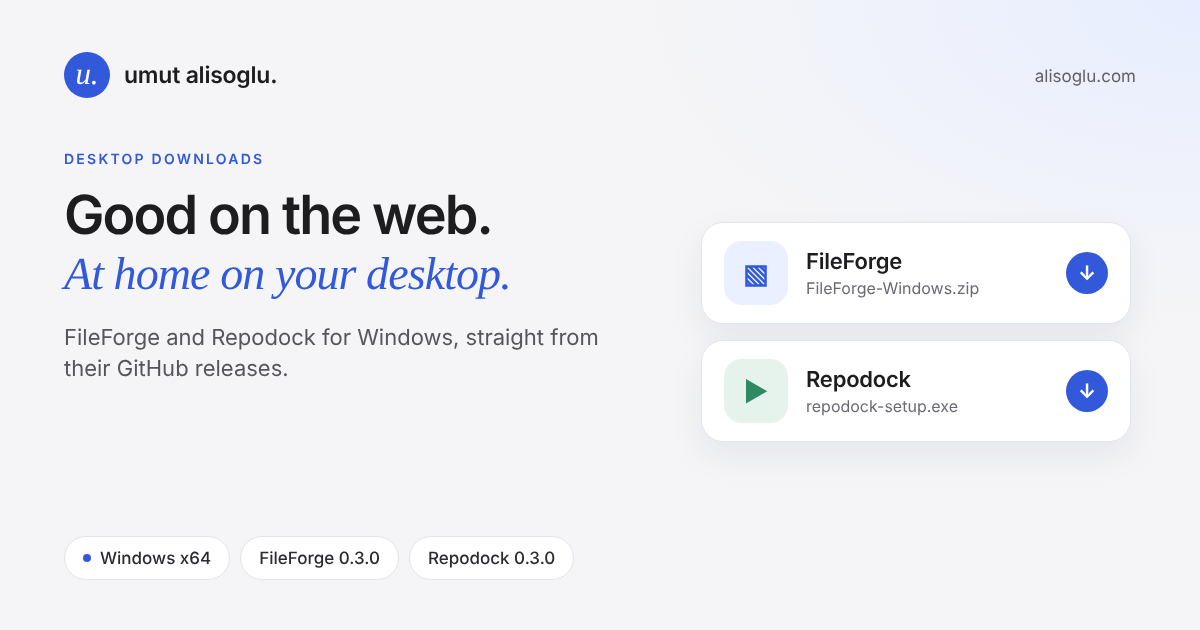
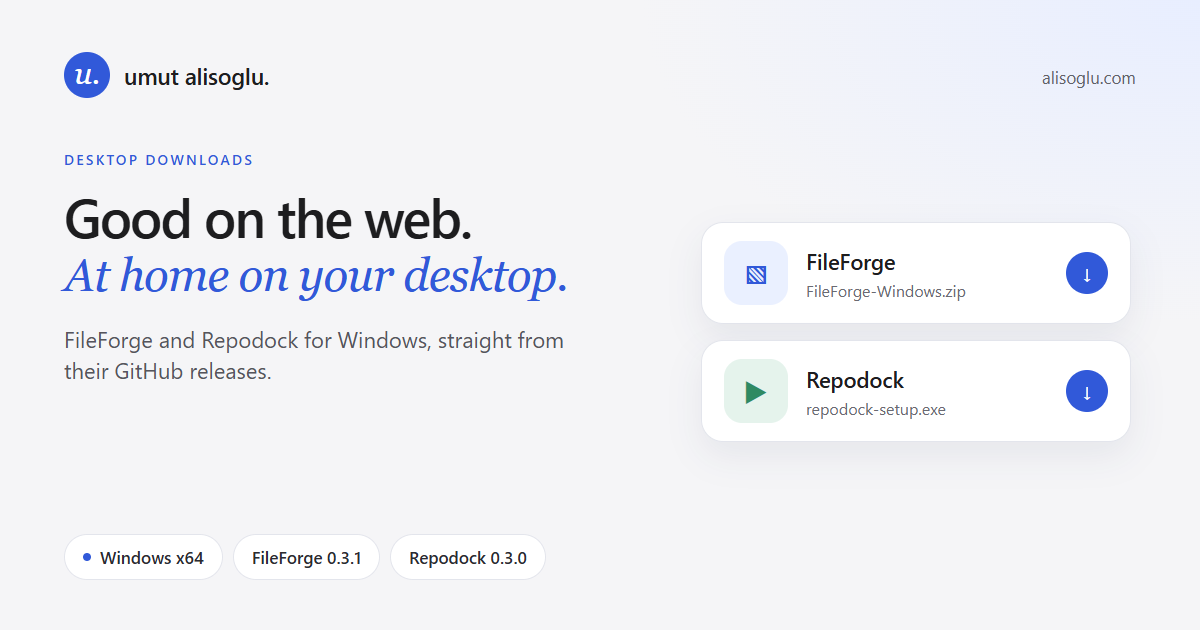
Update the FileForge download to 0.3.1 (#21)

diff --git a/projects/fileforge/index.html b/projects/fileforge/index.html
@@ -21,12 +21,12 @@
   <site-header></site-header>
   <main id="main" class="wrap project-page"><div class="breadcrumbs"><a href="/projects/">Projects</a><span aria-hidden="true">/</span><span>FileForge</span></div>
     <section class="project-hero"><div><p class="eyebrow">BROWSER TOOLS + WINDOWS APP</p><h1>FileForge<span class="accent-dot">.</span><br><em>Files, sorted.</em></h1><p>Everyday file jobs should take a few clicks. Convert images, tidy PDFs, share spreadsheet tables and shrink videos, on your own device.</p><div class="hero-actions"><a class="button primary" href="/tools/workspace/">Open the browser workspace ↗</a><a class="quiet-link" href="#desktop">Get the Windows app ↓</a></div></div><div class="forge-art" role="img" aria-label="Illustration: images, spreadsheets, PDFs and videos processed locally with FileForge"><span class="art-label">THE EVERYDAY FILE TOOLKIT</span><div class="forge-logo"><img src="/assets/fileforge.svg" width="66" height="66" alt=""><strong>FileForge<span>.</span></strong></div><div class="forge-formats"><span>JPG <b>↔</b> WebP</span><span>XLSX <b>→</b> PDF</span><span>PDF <b>+</b> PDF</span><span>MP4 <b>↓</b> size</span></div><span class="art-sticker">Less file drama.</span><span class="art-bottom"><span class="status-dot"></span> YOUR DEVICE DOES THE WORK</span></div></section>
-    <div class="project-facts"><span><strong>Processing</strong>On your device</span><span><strong>Browser</strong>Free tools, no install</span><span><strong>Desktop release</strong>v0.3.0 · 23 Oct 2026</span></div>
+    <div class="project-facts"><span><strong>Processing</strong>On your device</span><span><strong>Browser</strong>Free tools, no install</span><span><strong>Desktop release</strong>v0.3.1 · 27 Nov 2026</span></div>
     <nav class="product-workflows" aria-label="Choose a FileForge workflow"><a href="/tools/workspace/"><strong>One file or a custom workflow →</strong><span>Choose a file and see compatible tools.</span></a><a href="/tools/image-converter/"><strong>Resize or convert images →</strong><span>Choose a format, quality and size for one photo or a batch.</span></a><a href="/tools/"><strong>Find a specific converter →</strong><span>Search by task or file format.</span></a></nav><edition-choice></edition-choice>
     <product-demo data-app="fileforge"></product-demo>
     <section class="story-section"><div><p class="eyebrow">THE IDEA</p><h2>Everyday file work,<br>in one place.</h2></div><div><h3>Why this project exists</h3><p>FileForge brings common conversions into one place. The browser version reads the files you select, does the processing locally, and gives you a download.</p><h3>A design choice: local processing</h3><p>Image processing and document work run in background browser tasks. Video compression uses FFmpeg compiled for the browser. The larger engine only loads when you start a video job.</p><a class="text-link" href="/privacy/">Read the browser privacy notes →</a></div></section>
-    <section class="comparison-section" aria-labelledby="compare-title"><p class="eyebrow">PICK THE VERSION THAT FITS</p><h2 id="compare-title">Need the details?</h2><details class="product-comparison"><summary>Compare browser and Windows tools</summary><div class="table-scroll"><table class="comparison-table"><caption>Current browser tools compared with FileForge for Windows v0.3.0</caption><thead><tr><th scope="col">What you need</th><th scope="col">In your browser</th><th scope="col">Windows app</th></tr></thead><tbody><tr><th scope="row">Get started</th><td>Open a tool. No installation.</td><td>Extract the complete ZIP; keep the workspace folder beside the executable.</td></tr><tr><th scope="row">Images</th><td>Batch conversion, resize, crop, editable background cutouts, SVG tracing, ZIP or combined PDF.</td><td>Full connected workspace, plus native conversion, crop, background removal and SVG tracing with TIFF input.</td></tr><tr><th scope="row">Guided Quick Jobs</th><td>Available in the current browser version.</td><td>Not included in the existing 0.3.0 package.</td></tr><tr><th scope="row">PDFs</th><td>Merge, preview, reorder, rotate, select pages and export page images.</td><td>Workspace PDF tools, including compression and splitting; native PDF tools for larger inputs.</td></tr><tr><th scope="row">Spreadsheets</th><td>XLSX and CSV to PDF tables.</td><td>Workspace exports plus native spreadsheet-to-PDF tables for larger files.</td></tr><tr><th scope="row">Video</th><td>Up to 100 MB. Engine loads when needed.</td><td>Workspace engine included up to 100 MB; native video up to 2 GB needs installed FFmpeg and FFprobe.</td></tr><tr><th scope="row">Text extraction</th><td>Image/scanned PDF OCR in English, German or Turkish; editable TXT.</td><td>Included in the connected workspace; engines and assets are bundled.</td></tr><tr><th scope="row">Creative &amp; scanned pages</th><td>Screenshot studio; manual four-corner document scanner, cleanup and image PDF export.</td><td>Included in the connected workspace; engines and assets are bundled.</td></tr><tr><th scope="row">Office, text &amp; data</th><td>DOCX/PPTX previews to PDF, text/PDF conversion and CSV ↔ JSON.</td><td>Included workspace tools with the same preview limits; engines bundled.</td></tr><tr><th scope="row">Connected workspace</th><td>Pass results to compatible tools; optional offline packs.</td><td>Included connected workspace, plus the nine existing native converters.</td></tr><tr><th scope="row">Best for</th><td>Quick jobs on a modern browser.</td><td>An offline toolkit, with native options for larger jobs.</td></tr></tbody></table></div></details></section>
-    <section class="release-panel" id="desktop"><div><p class="eyebrow">WINDOWS DOWNLOAD / V0.3.0</p><h2>A place on your desktop.</h2><p>FileForge-Windows.zip · about 105.7 MB<br>Release information checked 27 October 2026.</p><a class="button primary" href="https://github.com/UmutAlisoglu/fileforge/releases/download/v0.3.0/FileForge-Windows.zip">Download for Windows ↓</a><p><a class="text-link" href="https://github.com/UmutAlisoglu/fileforge/releases">All releases & notes ↗</a></p></div><div><ol class="steps-list"><li><h3>Extract the ZIP</h3><p>Keep the workspace folder beside FileForge.exe. Run install.cmd to install both for your Windows user, or launch the executable from the extracted folder. Close FileForge before updating.</p></li><li><h3>Check the requirements</h3><p>Microsoft Edge WebView2 is required. Workspace engines are bundled. Only the native video tool needs separately installed FFmpeg and FFprobe on PATH.</p></li><li><h3>Start a job</h3><p>Use the connected workspace for 22 tasks, or switch to Native tools for the existing nine converters and larger file limits. Models, fonts and OCR languages are bundled. Save workspace results before leaving; native jobs use temporary copies on this computer.</p></li></ol><a class="text-link" href="https://github.com/UmutAlisoglu/fileforge#readme">Full installation guide ↗</a></div></section>
+    <section class="comparison-section" aria-labelledby="compare-title"><p class="eyebrow">PICK THE VERSION THAT FITS</p><h2 id="compare-title">Need the details?</h2><details class="product-comparison"><summary>Compare browser and Windows tools</summary><div class="table-scroll"><table class="comparison-table"><caption>Current browser tools compared with FileForge for Windows v0.3.1</caption><thead><tr><th scope="col">What you need</th><th scope="col">In your browser</th><th scope="col">Windows app</th></tr></thead><tbody><tr><th scope="row">Get started</th><td>Open a tool. No installation.</td><td>Extract the complete ZIP; keep the workspace folder beside the executable.</td></tr><tr><th scope="row">Images</th><td>Batch conversion, resize, crop, editable background cutouts, SVG tracing, ZIP or combined PDF.</td><td>Full connected workspace, plus native conversion, crop, background removal and SVG tracing with TIFF input.</td></tr><tr><th scope="row">Guided Quick Jobs</th><td>Available in the current browser version.</td><td>Not included in the existing 0.3.1 package.</td></tr><tr><th scope="row">PDFs</th><td>Merge, preview, reorder, rotate, select pages and export page images.</td><td>Workspace PDF tools, including compression and splitting; native PDF tools for larger inputs.</td></tr><tr><th scope="row">Spreadsheets</th><td>XLSX and CSV to PDF tables.</td><td>Workspace exports plus native spreadsheet-to-PDF tables for larger files.</td></tr><tr><th scope="row">Video</th><td>Up to 100 MB. Engine loads when needed.</td><td>Workspace engine included up to 100 MB; native video up to 2 GB needs installed FFmpeg and FFprobe.</td></tr><tr><th scope="row">Text extraction</th><td>Image/scanned PDF OCR in English, German or Turkish; editable TXT.</td><td>Included in the connected workspace; engines and assets are bundled.</td></tr><tr><th scope="row">Creative &amp; scanned pages</th><td>Screenshot studio; manual four-corner document scanner, cleanup and image PDF export.</td><td>Included in the connected workspace; engines and assets are bundled.</td></tr><tr><th scope="row">Office, text &amp; data</th><td>DOCX/PPTX previews to PDF, text/PDF conversion and CSV ↔ JSON.</td><td>Included workspace tools with the same preview limits; engines bundled.</td></tr><tr><th scope="row">Connected workspace</th><td>Pass results to compatible tools; optional offline packs.</td><td>Included connected workspace, plus the nine existing native converters.</td></tr><tr><th scope="row">Best for</th><td>Quick jobs on a modern browser.</td><td>An offline toolkit, with native options for larger jobs.</td></tr></tbody></table></div></details></section>
+    <section class="release-panel" id="desktop"><div><p class="eyebrow">WINDOWS DOWNLOAD / V0.3.1</p><h2>A place on your desktop.</h2><p>FileForge-Windows.zip · about 105.7 MB<br>Fixes native XLSX-to-PDF exports that could miss cells when a workbook reported incorrect worksheet dimensions.</p><a class="button primary" href="https://github.com/UmutAlisoglu/fileforge/releases/download/v0.3.1/FileForge-Windows.zip">Download for Windows ↓</a><p><a class="text-link" href="https://github.com/UmutAlisoglu/fileforge/releases">All releases & notes ↗</a></p></div><div><ol class="steps-list"><li><h3>Extract the ZIP</h3><p>Keep the workspace folder beside FileForge.exe. Run install.cmd to install both for your Windows user, or launch the executable from the extracted folder. Close FileForge before updating.</p></li><li><h3>Check the requirements</h3><p>Microsoft Edge WebView2 is required. Workspace engines are bundled. Only the native video tool needs separately installed FFmpeg and FFprobe on PATH.</p></li><li><h3>Start a job</h3><p>Use the connected workspace for 22 tasks, or switch to Native tools for the existing nine converters and larger file limits. Models, fonts and OCR languages are bundled. Save workspace results before leaving; native jobs use temporary copies on this computer.</p></li></ol><a class="text-link" href="https://github.com/UmutAlisoglu/fileforge#readme">Full installation guide ↗</a></div></section>
     <section class="story-section product-limitations"><div><p class="eyebrow">BEFORE YOU EXPORT</p><h2>Know what<br>you’re getting.</h2></div><div><p><strong>Office → PDF:</strong> DOCX and PPTX exports are page images. Fonts and page breaks can differ from Microsoft Office; review every page. Use Office’s own export when exact layout or selectable text is essential.</p><p><strong>OCR and compression:</strong> OCR makes editable TXT, not a searchable PDF. PDF compression targets supported JPEG images and may not shrink an already optimized document.</p><p><strong>Image cutouts:</strong> Automatic background removal can need edge cleanup. Use the erase and restore controls to refine the result before exporting.</p><div class="inline-links"><a class="text-link" href="https://github.com/UmutAlisoglu/umutalisoglu.github.io">Browser source ↗</a><a class="text-link" href="https://github.com/UmutAlisoglu/fileforge">Desktop source ↗</a><a class="text-link" href="/contact/">Give feedback →</a></div></div></section>
   </main>
   <site-footer></site-footer>

diff --git a/downloads/index.html b/downloads/index.html
@@ -19,7 +19,7 @@
 </head>
 <body>
   <site-header></site-header>
-  <main id="main" class="wrap directory-page"><div class="page-intro"><p class="eyebrow">TAKE A LITTLE USEFULNESS WITH YOU</p><h1>Good on the web.<br><em>At home on your desktop.</em></h1><p>Windows downloads from the projects’ GitHub Releases. Pick an app, check the requirements, and make it yours.</p></div><div class="download-grid"><article class="download-card"><div class="download-heading"><img src="/assets/fileforge.svg" width="48" height="48" alt=""><span class="version-label">v0.3.0</span></div><h2>FileForge</h2><p>The full connected workspace: document converters, OCR, image/PDF tools, scanning and more. Plus nine native converters for larger jobs.</p><dl><div><dt>Package</dt><dd>Windows x64 ZIP · ~105.7 MB</dd></div><div><dt>Released</dt><dd>23 October 2026</dd></div><div><dt>Needs</dt><dd>WebView2; FFmpeg + FFprobe only for native video</dd></div></dl><a class="button primary" href="https://github.com/UmutAlisoglu/fileforge/releases/download/v0.3.0/FileForge-Windows.zip">Download for Windows ↓</a><details class="release-changes"><summary>What changed in 0.3.0?</summary><p>Connected workspace with document tools, OCR, scanning and bundled engines. Nine native converters remain available for larger jobs. New website Quick Jobs are a separate browser update.</p><a class="text-link" href="https://github.com/UmutAlisoglu/fileforge/releases/tag/v0.3.0">Read the release notes ↗</a></details><div class="inline-links"><a class="text-link" href="/projects/fileforge/#desktop">Setup & requirements →</a><a class="text-link" href="/tools/">Use browser tools →</a></div></article><article class="download-card"><div class="download-heading"><span class="download-monogram" aria-hidden="true">r.</span><span class="version-label">v0.3.0</span></div><h2>Repodock</h2><p>Download, run and manage local GitHub projects in one dashboard.</p><dl><div><dt>Packages</dt><dd>Installer · ~15.8 MB / ZIP · ~25.2 MB</dd></div><div><dt>Released</dt><dd>27 October 2026</dd></div><div><dt>Needs</dt><dd>WebView2 for the app window; projects need their own runtimes</dd></div></dl><a class="button primary" href="https://github.com/UmutAlisoglu/repodock/releases/download/v0.3.0/repodock-setup.exe">Download the installer ↓</a><details class="release-changes"><summary>What changed in 0.3.0?</summary><p>Fixes command detection for malformed project metadata and adds reviewed project links with reliable handoff to the running app.</p><a class="text-link" href="https://github.com/UmutAlisoglu/repodock/releases/tag/v0.3.0">Read the release notes ↗</a></details><div class="inline-links"><a class="text-link" href="https://github.com/UmutAlisoglu/repodock/releases/download/v0.3.0/repodock-setup.exe">Installer ↓</a><a class="text-link" href="https://github.com/UmutAlisoglu/repodock/releases/download/v0.3.0/repodock-windows-portable.zip">Portable ZIP ↓</a><a class="text-link" href="/projects/repodock/#download">Setup & requirements →</a></div></article></div><p class="release-footnote">Both desktop releases checked 27 October 2026. Browser features and installed desktop apps update separately. For newer releases and changes, visit <a href="https://github.com/UmutAlisoglu/fileforge/releases">FileForge releases ↗</a> or <a href="https://github.com/UmutAlisoglu/repodock/releases">Repodock releases ↗</a>.</p><section class="simple-callout"><div><h2>Just need a quick conversion?</h2><p>Open FileForge in your browser. No installation required.</p></div><a class="button secondary" href="/tools/">Find your tool →</a></section></main>
+  <main id="main" class="wrap directory-page"><div class="page-intro"><p class="eyebrow">TAKE A LITTLE USEFULNESS WITH YOU</p><h1>Good on the web.<br><em>At home on your desktop.</em></h1><p>Windows downloads from the projects’ GitHub Releases. Pick an app, check the requirements, and make it yours.</p></div><div class="download-grid"><article class="download-card"><div class="download-heading"><img src="/assets/fileforge.svg" width="48" height="48" alt=""><span class="version-label">v0.3.1</span></div><h2>FileForge</h2><p>The full connected workspace: document converters, OCR, image/PDF tools, scanning and more. Plus nine native converters for larger jobs.</p><dl><div><dt>Package</dt><dd>Windows x64 ZIP · ~105.7 MB</dd></div><div><dt>Released</dt><dd>27 November 2026</dd></div><div><dt>Needs</dt><dd>WebView2; FFmpeg + FFprobe only for native video</dd></div></dl><a class="button primary" href="https://github.com/UmutAlisoglu/fileforge/releases/download/v0.3.1/FileForge-Windows.zip">Download for Windows ↓</a><details class="release-changes"><summary>What changed in 0.3.1?</summary><p>Fixes native XLSX-to-PDF exports that could miss cells when a workbook reported incorrect worksheet dimensions.</p><a class="text-link" href="https://github.com/UmutAlisoglu/fileforge/releases/tag/v0.3.1">Read the release notes ↗</a></details><div class="inline-links"><a class="text-link" href="/projects/fileforge/#desktop">Setup & requirements →</a><a class="text-link" href="/tools/">Use browser tools →</a></div></article><article class="download-card"><div class="download-heading"><span class="download-monogram" aria-hidden="true">r.</span><span class="version-label">v0.3.0</span></div><h2>Repodock</h2><p>Download, run and manage local GitHub projects in one dashboard.</p><dl><div><dt>Packages</dt><dd>Installer · ~15.8 MB / ZIP · ~25.2 MB</dd></div><div><dt>Released</dt><dd>27 October 2026</dd></div><div><dt>Needs</dt><dd>WebView2 for the app window; projects need their own runtimes</dd></div></dl><a class="button primary" href="https://github.com/UmutAlisoglu/repodock/releases/download/v0.3.0/repodock-setup.exe">Download the installer ↓</a><details class="release-changes"><summary>What changed in 0.3.0?</summary><p>Fixes command detection for malformed project metadata and adds reviewed project links with reliable handoff to the running app.</p><a class="text-link" href="https://github.com/UmutAlisoglu/repodock/releases/tag/v0.3.0">Read the release notes ↗</a></details><div class="inline-links"><a class="text-link" href="https://github.com/UmutAlisoglu/repodock/releases/download/v0.3.0/repodock-setup.exe">Installer ↓</a><a class="text-link" href="https://github.com/UmutAlisoglu/repodock/releases/download/v0.3.0/repodock-windows-portable.zip">Portable ZIP ↓</a><a class="text-link" href="/projects/repodock/#download">Setup & requirements →</a></div></article></div><p class="release-footnote">Desktop download links checked 27 November 2026. Browser features and installed desktop apps update separately. For newer releases and changes, visit <a href="https://github.com/UmutAlisoglu/fileforge/releases">FileForge releases ↗</a> or <a href="https://github.com/UmutAlisoglu/repodock/releases">Repodock releases ↗</a>.</p><section class="simple-callout"><div><h2>Just need a quick conversion?</h2><p>Open FileForge in your browser. No installation required.</p></div><a class="button secondary" href="/tools/">Find your tool →</a></section></main>
   <site-footer></site-footer>
 </body>
 </html>

diff --git a/src/site/social-cards.js b/src/site/social-cards.js
@@ -10,7 +10,7 @@ const pages = {
   '/': { home: true, eyebrow: 'Software & personal projects', title: 'Umut Alisoglu', em: 'I make tools for everyday work.', chips: ['FileForge', 'Repodock', 'PCB Art Studio'], visual: { kind: 'home' } },
   '/about/': { eyebrow: 'About', title: 'Umut Alisoglu', em: 'Software, tools & hardware.', subtitle: 'The person behind FileForge, Repodock and PCB Art Studio. Currently building a PCB AIO Tool.', chips: ['Practical software', 'Local first', 'GitHub: UmutAlisoglu'], visual: { kind: 'monogram' } },
   '/projects/': { eyebrow: 'Projects & experiments', title: 'Projects', em: 'Things I build and ship.', subtitle: 'FileForge file tools, the Repodock project launcher, PCB Art Studio and a few experiments.', chips: ['FileForge', 'Repodock', 'PCB Art Studio'], visual: { kind: 'stack' } },
-  '/projects/fileforge/': { eyebrow: 'Project · Browser & Windows', title: 'FileForge', em: 'The local file toolkit.', subtitle: 'Free image, PDF, document and video tools in the browser, plus a Windows app for larger jobs.', chips: ['Runs on your device', 'Windows 0.3.0', 'Free'], visual: { kind: 'image', src: 'assets/screenshots/fileforge.jpg', frame: 'browser', position: 'top' } },
+  '/projects/fileforge/': { eyebrow: 'Project · Browser & Windows', title: 'FileForge', em: 'The local file toolkit.', subtitle: 'Free image, PDF, document and video tools in the browser, plus a Windows app for larger jobs.', chips: ['Runs on your device', 'Windows 0.3.1', 'Free'], visual: { kind: 'image', src: 'assets/screenshots/fileforge.jpg', frame: 'browser', position: 'top' } },
   '/projects/repodock/': { eyebrow: 'Project · Windows app', title: 'Repodock', em: 'Your local project launcher.', subtitle: 'Download GitHub projects, review run commands, start and stop processes and read their logs.', chips: ['Windows x64', 'Version 0.3.0', 'Free'], visual: { kind: 'image', src: 'assets/repodock-dashboard.png', frame: 'browser', position: 'left top', zoom: 175 } },
   '/projects/pcb-art-studio/': { eyebrow: 'Browser tool · Image to Gerber', title: 'PCB Art Studio', em: 'Your picture, on a real board.', subtitle: 'Map tones to copper, gold, solder mask and silkscreen, preview the board and download Gerber files.', chips: ['Runs in your browser', 'Gerber ZIP', 'Free'], visual: { kind: 'image', src: 'assets/screenshots/pcb-art-studio.jpg', frame: 'board' } },
   '/projects/pcb-art-studio/nfc-card/': { eyebrow: 'Browser tool · NFC business card', title: 'NFC Card Builder', em: 'A business card phones can tap.', subtitle: 'Type your details, preview the circuit board card and download files ready to order with the NFC chip.', chips: ['Runs in your browser', 'Gerber, BOM & CPL', 'Free'], visual: { kind: 'image', src: 'assets/screenshots/nfc-card.jpg', frame: 'board' } },
@@ -19,7 +19,7 @@ const pages = {
   '/tools/fileforge/': { eyebrow: 'FileForge · Browser workspace', title: 'FileForge workspace', em: 'Your files. Your browser.', subtitle: 'Images, PDF pages, Excel to PDF, merging and video compression in one place.', chips: local, visual: { kind: 'grid', ids: ['image', 'organize', 'spreadsheet', 'merge', 'video', 'split'] } },
   '/tools/workspace/': { eyebrow: 'FileForge · Connected workspace', title: 'Convert. Refine.', em: 'Keep going.', subtitle: 'Choose a file and pass each result to the next tool in memory, without re-uploading.', chips: local, visual: { kind: 'flow' } },
   '/games/': { eyebrow: 'Games & playful experiments', title: 'Serious about', em: 'having some fun.', subtitle: 'Skate Scape, an unofficial fan project, and a local idea machine to try.', chips: ['Skate Scape', 'Idea machine'], visual: { kind: 'symbol', symbol: '◎', color: 'pink' } },
-  '/downloads/': { eyebrow: 'Desktop downloads', title: 'Good on the web.', em: 'At home on your desktop.', subtitle: 'FileForge and Repodock for Windows, straight from their GitHub releases.', chips: ['Windows x64', 'FileForge 0.3.0', 'Repodock 0.3.0'], visual: { kind: 'downloads' } },
+  '/downloads/': { eyebrow: 'Desktop downloads', title: 'Good on the web.', em: 'At home on your desktop.', subtitle: 'FileForge and Repodock for Windows, straight from their GitHub releases.', chips: ['Windows x64', 'FileForge 0.3.1', 'Repodock 0.3.0'], visual: { kind: 'downloads' } },
   '/privacy/': { eyebrow: 'Privacy', title: 'Your files.', em: 'Your business.', subtitle: 'Selected files are processed in your browser. No analytics, no ads, no conversion server.', chips: ['No file uploads', 'No analytics', 'Opt-in storage'], visual: { kind: 'symbol', symbol: '🔒', color: 'mint', label: 'Stays on your device' } },
   '/contact/': { eyebrow: 'Contact & feedback', title: 'Let’s have', em: 'a chat.', subtitle: 'Email umut@alisoglu.com, suggest an improvement or prepare a bug report on GitHub.', chips: ['Email or GitHub', 'Feedback welcome'], visual: { kind: 'symbol', symbol: '✉', color: 'blue', label: 'umut@alisoglu.com' } },
   '/tools/file-inspector/': { eyebrow: 'FileForge · Any file type', title: 'File inspector', em: 'What is this file, really?', subtitle: 'Real format from the bytes, metadata, embedded files, hidden data and a hex view.', chips: local, visual: { kind: 'symbol', symbol: '⌕', color: 'blue' } },

diff --git a/src/site/product-content.js b/src/site/product-content.js
@@ -1,7 +1,7 @@
-// Checked against the public GitHub release metadata on 27 October 2026.
+// Checked against the public GitHub release metadata on 27 November 2026.
 // Keep desktop release claims separate from newer browser features.
 export function renderEditionChoice() {
-  return `<section class="edition-choice" aria-labelledby="edition-choice-title"><header><p class="eyebrow">CHOOSE YOUR WAY IN</p><h2 id="edition-choice-title">Start in the browser. Install when you need more.</h2></header><div class="edition-grid"><article><span class="edition-tag">IN YOUR BROWSER</span><h3>For everyday files.</h3><p>Free tools and guided Quick Jobs. No install or account. Files are processed on your device.</p><ul><li>Works in a modern desktop or mobile browser</li><li>Results live in this tab; download before leaving</li><li>Optional offline packs for selected tools</li></ul><a class="button primary" href="/tools/workspace/">Open FileForge ↗</a></article><article><span class="edition-tag">WINDOWS X64 · V0.3.0</span><h3>For offline work and larger files.</h3><p>Install if you need bundled engines or larger native file limits. Browser tools are enough for many everyday jobs.</p><ul><li>105.7 MB ZIP · Microsoft Edge WebView2 required</li><li>Extract the whole ZIP; keep its workspace folder</li><li>Native video needs FFmpeg and FFprobe</li></ul><a class="button secondary" href="https://github.com/UmutAlisoglu/fileforge/releases/download/v0.3.0/FileForge-Windows.zip">Download for Windows ↓</a><a class="edition-notes" href="https://github.com/UmutAlisoglu/fileforge/releases/tag/v0.3.0">What changed in 0.3.0 ↗</a></article></div><p class="edition-footnote">Desktop release checked 27 October 2026. Quick Jobs are newer browser features and are not included in Windows 0.3.0. Native desktop jobs use temporary copies on this computer and keep results for up to 24 hours while running, or until cleared.</p></section>`;
+  return `<section class="edition-choice" aria-labelledby="edition-choice-title"><header><p class="eyebrow">CHOOSE YOUR WAY IN</p><h2 id="edition-choice-title">Start in the browser. Install when you need more.</h2></header><div class="edition-grid"><article><span class="edition-tag">IN YOUR BROWSER</span><h3>For everyday files.</h3><p>Free tools and guided Quick Jobs. No install or account. Files are processed on your device.</p><ul><li>Works in a modern desktop or mobile browser</li><li>Results live in this tab; download before leaving</li><li>Optional offline packs for selected tools</li></ul><a class="button primary" href="/tools/workspace/">Open FileForge ↗</a></article><article><span class="edition-tag">WINDOWS X64 · V0.3.1</span><h3>For offline work and larger files.</h3><p>Install if you need bundled engines or larger native file limits. Browser tools are enough for many everyday jobs.</p><ul><li>105.7 MB ZIP · Microsoft Edge WebView2 required</li><li>Extract the whole ZIP; keep its workspace folder</li><li>Native video needs FFmpeg and FFprobe</li></ul><a class="button secondary" href="https://github.com/UmutAlisoglu/fileforge/releases/download/v0.3.1/FileForge-Windows.zip">Download for Windows ↓</a><a class="edition-notes" href="https://github.com/UmutAlisoglu/fileforge/releases/tag/v0.3.1">What changed in 0.3.1 ↗</a></article></div><p class="edition-footnote">Desktop release checked 27 November 2026. Quick Jobs are available in the browser. Native desktop jobs use temporary copies on this computer and keep results for up to 24 hours while running, or until cleared.</p></section>`;
 }
 
 export function renderProductDemo(app) {

diff --git a/src/site/discovery.js b/src/site/discovery.js
@@ -17,12 +17,12 @@ export function discoveryTags(path, metadata = {}) {
     graph.push({ '@type': 'BreadcrumbList', itemListElement: [{ '@type': 'ListItem', position: 1, name: 'Home', item: 'https://alisoglu.com/' }, { '@type': 'ListItem', position: 2, name: 'Tools', item: 'https://alisoglu.com/tools/' }, { '@type': 'ListItem', position: 3, name: tool.name, item: url }] });
   }
   const desktop = {
-    '/projects/fileforge/': { name: 'FileForge for Windows', repo: 'fileforge', asset: 'FileForge-Windows.zip', description: 'Local file tools with a bundled connected workspace and native converters for larger files.' },
-    '/projects/repodock/': { name: 'Repodock', repo: 'repodock', asset: 'repodock-setup.exe', description: 'Manage local GitHub projects, review run commands, start and stop processes, and inspect logs.' },
+    '/projects/fileforge/': { name: 'FileForge for Windows', repo: 'fileforge', version: '0.3.1', asset: 'FileForge-Windows.zip', description: 'Local file tools with a bundled connected workspace and native converters for larger files.' },
+    '/projects/repodock/': { name: 'Repodock', repo: 'repodock', version: '0.3.0', asset: 'repodock-setup.exe', description: 'Manage local GitHub projects, review run commands, start and stop processes, and inspect logs.' },
   }[path];
   if (desktop) {
     const appID = `${url}#windows-app`, release = `https://github.com/UmutAlisoglu/${desktop.repo}/releases`;
-    graph.push({ '@type': 'SoftwareApplication', '@id': appID, name: desktop.name, url, description: desktop.description, operatingSystem: 'Windows (x64)', applicationCategory: desktop.repo === 'repodock' ? 'DeveloperApplication' : 'UtilitiesApplication', softwareVersion: '0.3.0', downloadUrl: `${release}/download/v0.3.0/${desktop.asset}`, releaseNotes: `${release}/tag/v0.3.0`, isAccessibleForFree: true, offers: { '@type': 'Offer', price: '0', priceCurrency: 'USD' }, author: { '@id': person['@id'] } });
+    graph.push({ '@type': 'SoftwareApplication', '@id': appID, name: desktop.name, url, description: desktop.description, operatingSystem: 'Windows (x64)', applicationCategory: desktop.repo === 'repodock' ? 'DeveloperApplication' : 'UtilitiesApplication', softwareVersion: desktop.version, downloadUrl: `${release}/download/v${desktop.version}/${desktop.asset}`, releaseNotes: `${release}/tag/v${desktop.version}`, isAccessibleForFree: true, offers: { '@type': 'Offer', price: '0', priceCurrency: 'USD' }, author: { '@id': person['@id'] } });
     webpage.mainEntity = { '@id': appID }; webpage.about = { '@id': appID };
     graph.push({ '@type': 'BreadcrumbList', itemListElement: [{ '@type': 'ListItem', position: 1, name: 'Home', item: site.url }, { '@type': 'ListItem', position: 2, name: 'Projects', item: 'https://alisoglu.com/projects/' }, { '@type': 'ListItem', position: 3, name: desktop.repo === 'fileforge' ? 'FileForge' : 'Repodock', item: url }] });
     if (desktop.repo === 'fileforge') {
